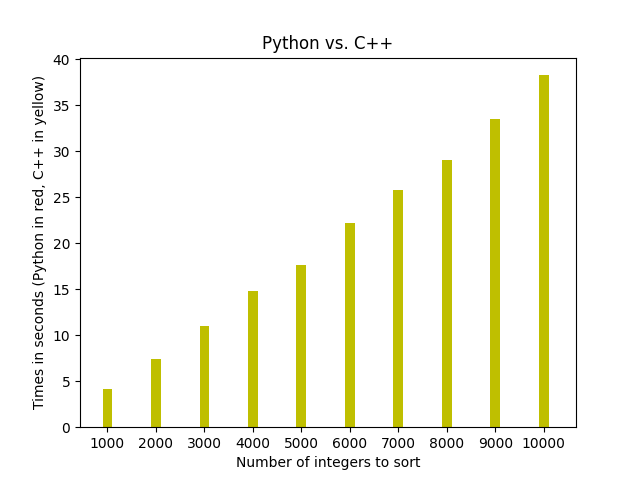
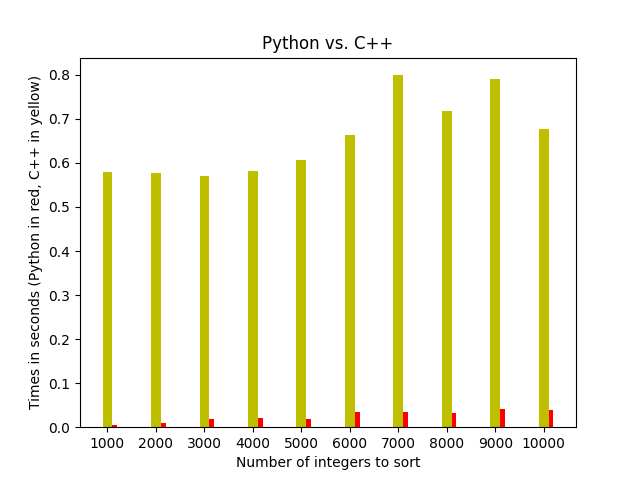
Finished work for both python and c++

diff --git a/cpp/RadixSort.cpp b/cpp/RadixSort.cpp
@@ -9,12 +9,12 @@ using namespace std;
 /**
  * Helper method to return the max number in the vector
  */
-int getMax(vector<int> nums, int num);
+int getMax(vector<long> nums, int num);
 
 /**
  * Helper method to counting sort the vector based on the digit, like in the python implementation
  */
-void countingSort(vector<int> nums, int num, int digit);
+void countingSort(vector<long> nums, int num, int digit);
 
 int main(int argc, char* argv[]) {
     int size;
@@ -65,19 +65,19 @@ int main(int argc, char* argv[]) {
     return 0;
 }
 
-int getMax(vector<int> nums, int num) {
+int getMax(vector<long> nums, int num) {
     int max = nums[0];
     for (int i = 1; i < num; i++) {
         if (nums[i] > max) {
-            max = num[i];
+            max = nums[i];
         }
     }
     return max;
 }
 
-void countingSort(vector<int> nums, int num, int digit) {
+void countingSort(vector<long> nums, int num, int digit) {
     vector<int> output(num);
-    vector<int> count(10) = {0};
+    vector<int> count(10);
     int i;
 
     // Store count of occurrences in count
